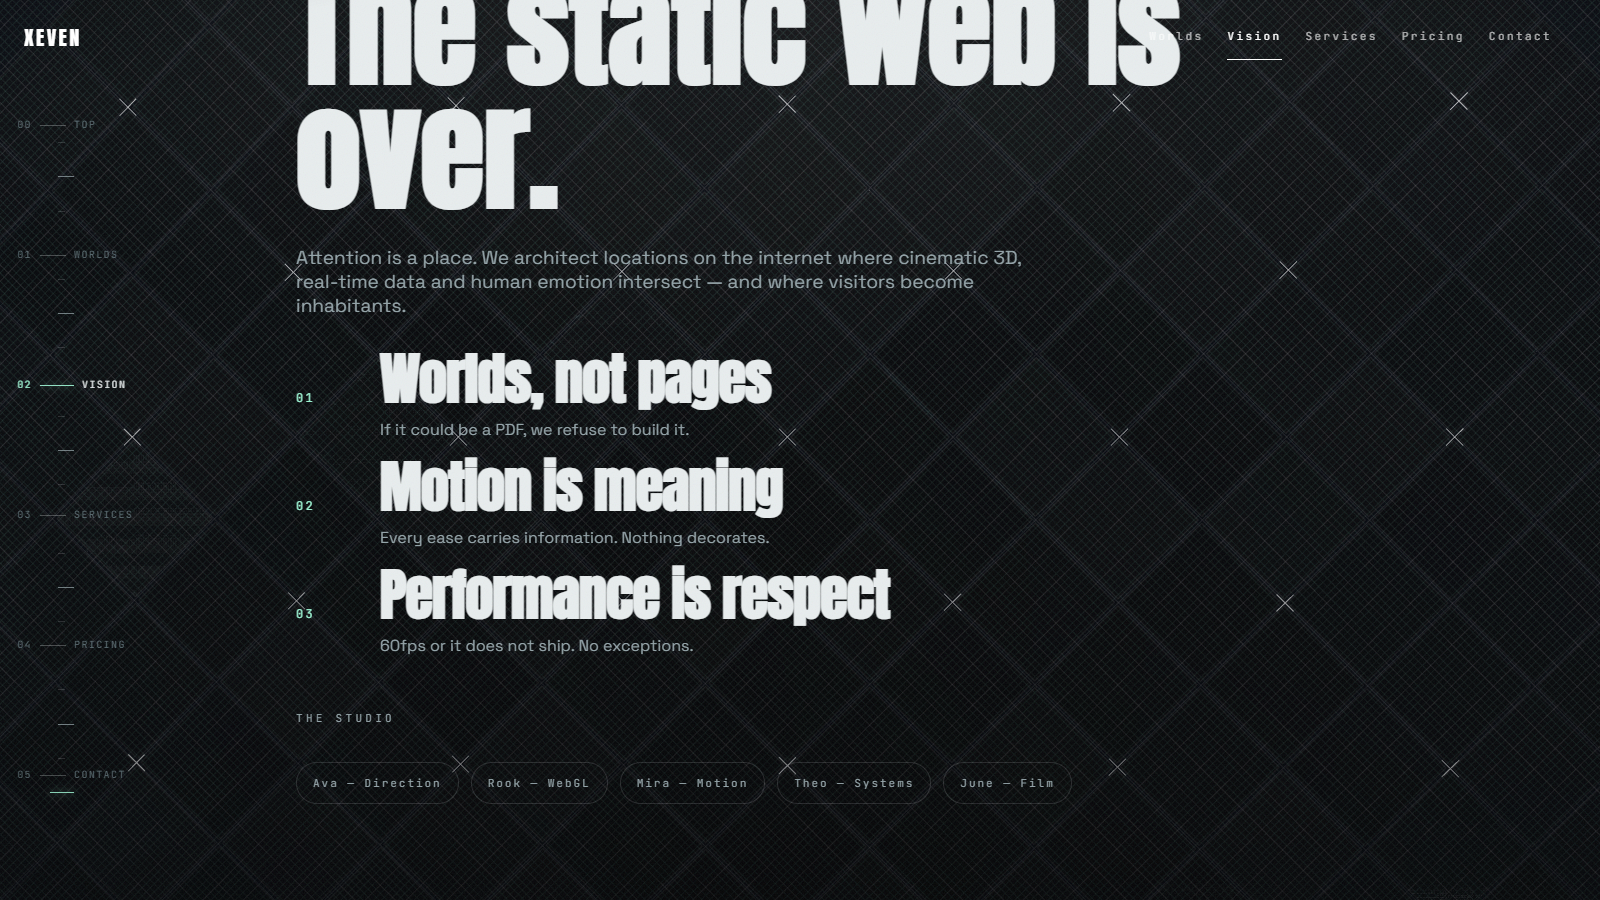
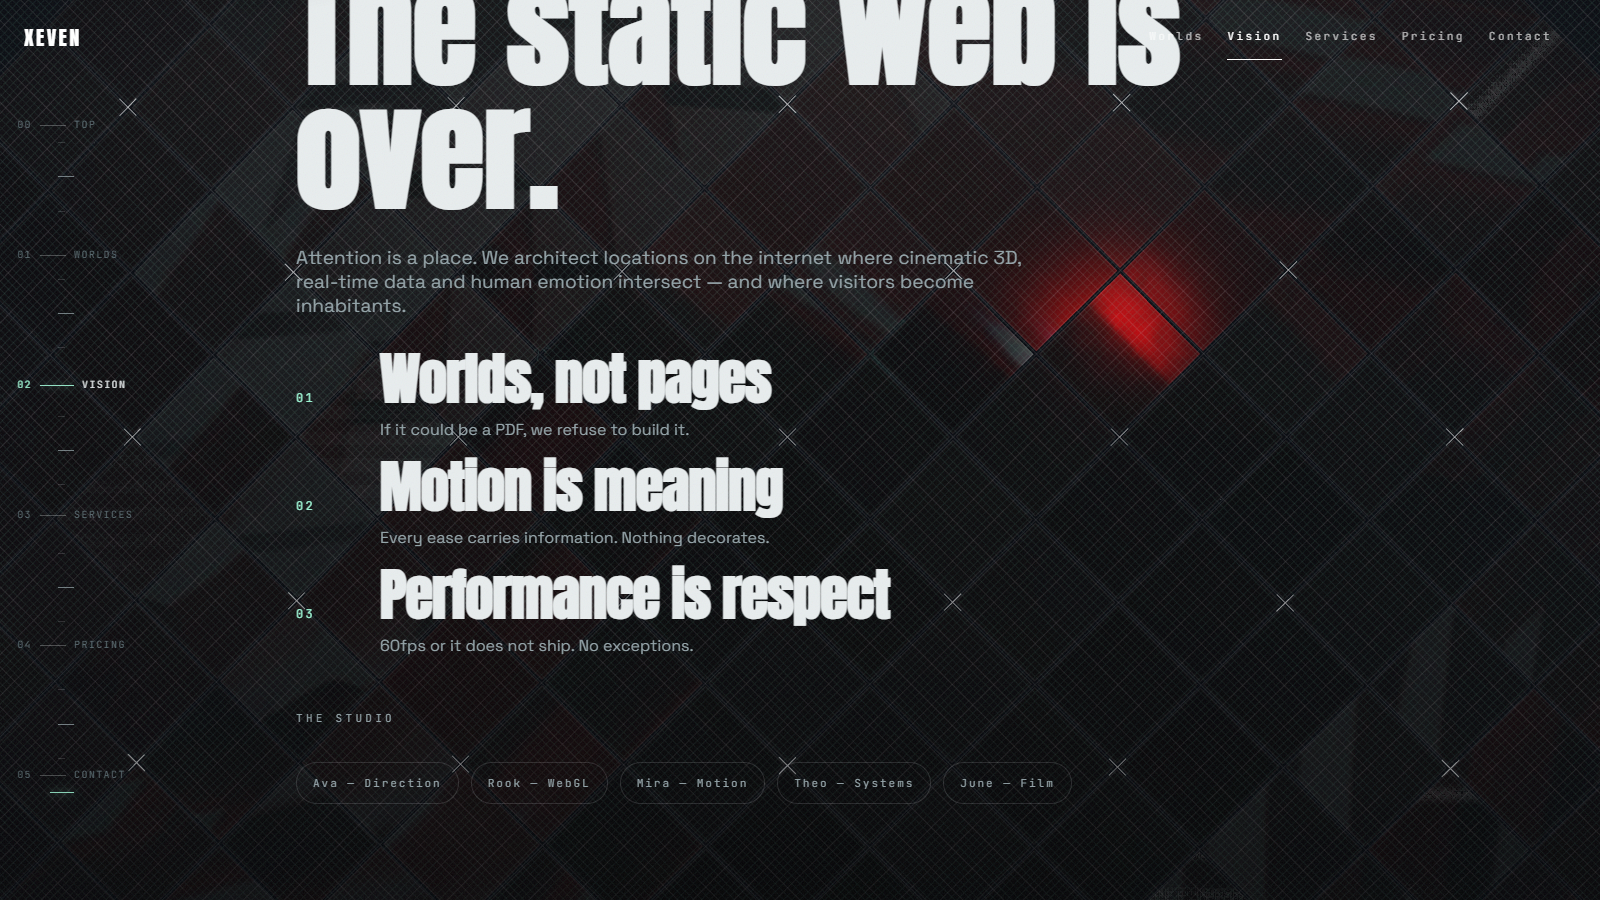
Living face mosaic woven across the quad field

Changed region(s): [[0.625, 0.2178, 0.7812, 0.4356], [0.9375, 0.0622, 0.9688, 0.0933]]

diff --git a/src/components/VoidWorld.tsx b/src/components/VoidWorld.tsx
@@ -185,6 +185,8 @@ export default function VoidWorld() {
     quadGeo.setAttribute('aSeed', new THREE.InstancedBufferAttribute(aSeed, 1))
     quadGeo.setAttribute('aQI', new THREE.InstancedBufferAttribute(aQI, 1))
     quadGeo.setAttribute('aQJ', new THREE.InstancedBufferAttribute(aQJ, 1))
+    const facePlaceholder = new THREE.DataTexture(new Uint8Array([8, 10, 14, 255]), 1, 1)
+    facePlaceholder.needsUpdate = true
     const quadUniforms = {
       uTime: { value: 0 },
       uTrail: {
@@ -194,6 +196,10 @@ export default function VoidWorld() {
       uVel: { value: 0 },
       uShowcase: { value: 1 },
       uVoid: { value: new THREE.Vector3(0.0235, 0.0353, 0.0588) },
+      uFace: { value: facePlaceholder as THREE.Texture },
+      uCells: { value: CELLS },
+      uFaceAmt: { value: 0 },
+      uDrift: { value: reduced ? 0 : 1 },
     }
     const quadMat = new THREE.ShaderMaterial({
       uniforms: quadUniforms,
@@ -237,6 +243,10 @@ export default function VoidWorld() {
         uniform float uVel;
         uniform float uShowcase;
         uniform vec3 uVoid;
+        uniform sampler2D uFace;
+        uniform float uCells;
+        uniform float uFaceAmt;
+        uniform float uDrift;
         varying vec2 vUv;
         varying vec3 vWorld;
         varying float vSeed;
@@ -271,6 +281,18 @@ export default function VoidWorld() {
           }
           float breathe = 0.85 + 0.15 * sin(uTime * 6.0 + vWorld.x * 8.0 + vWorld.y * 6.0);
           col += vec3(1.0) * air * wspd * 0.16 * breathe * uShowcase;
+          // living mosaic: the face model woven across the diamond field.
+          // Each cell samples its own UV sub-rect (counter-rotated so the
+          // face reads upright), breathing + drifting, stirred brighter
+          // under the pointer.
+          vec2 fp = vec2(
+            0.7071 * (vUv.x - 0.5) + 0.7071 * (vUv.y - 0.5),
+            -0.7071 * (vUv.x - 0.5) + 0.7071 * (vUv.y - 0.5)) + 0.5;
+          vec2 fuv = (vec2(vQI, (uCells - 1.0) - vQJ) + fp) / uCells;
+          vec2 fz = (fuv - 0.5) * (1.0 + 0.05 * sin(uTime * 0.25)) + 0.5;
+          fz += uDrift * vec2(sin(uTime * 0.11), cos(uTime * 0.13)) * 0.02;
+          vec3 face = texture2D(uFace, fz).rgb;
+          col += face * uFaceAmt * (0.55 + air * 1.5) * uShowcase;
           // roaming cinema: sparse panels on a 7s clock
           float slot = floor(uTime / 7.0);
           float lp = fract(uTime / 7.0);
@@ -309,6 +331,15 @@ export default function VoidWorld() {
     const quads = new THREE.InstancedMesh(quadGeo, quadMat, NQ)
     quads.frustumCulled = false // matrices re-laid on route rebuilds
     scene.add(quads)
+    // face model: async texture for the living mosaic (placeholder holds
+    // the field at zero until it arrives — never a flash, never a stall)
+    new THREE.TextureLoader().load('/assets/face.png', (tex) => {
+      tex.colorSpace = THREE.SRGBColorSpace
+      tex.anisotropy = 4
+      quadUniforms.uFace.value = tex
+      quadUniforms.uFaceAmt.value = 0.32
+      quadUniforms.uDrift.value = reduced ? 0 : 1
+    })
     // ---- quad placement: diamonds aligned to the rails ----
     // A uv-block (4×4 cells) maps to a world diamond: rotate the plane 45°
     // so its EDGES run along the lattice rails (mock grammar), centroids

diff --git a/backlog.md b/backlog.md
@@ -56,6 +56,7 @@ Scope frozen: map-only phase found zero blank routes, zero dead links, zero cons
 - [x] Capabilities + Showreel overhaul (full authority): CAPS cards were empty gradient slabs in a sprawling zigzag — now spec sheets (stack chips WebGL/GLSL/60fps etc., ghost numerals kept, Tilt kept) on a tightened 12vh rhythm with rail-clear gutter. Showreel rebuilt as cinema: letterbox bars closing over the pin, Ken Burns breathing inside every hold (inner-media scale, zero writer conflicts), single-timeline takes with counter. Verified: build green, 3 pre-existing warnings, Edge 0 errors / 0 overflow, stage 03/05 mid-pin, 2 bars, 12 spec chips, rail clears cards. Frames VISUALLY VERIFIED (spec-sheet card + dealing deck; letterboxed Chrome-drift take with ghost marquee). Evidence: verify/world/d4-world.json + g1 + g4.
 - [x] Capabilities + Showreel creative destruction: CAPS cards + deck-throw + Tilt + ghosts fully removed — capabilities are now a SPECIMEN INDEX (giant ruled titles, IO opens the centered row revealing media + data + stack chips, click exclusive, reduced stands fully open). Showreel conveyor/stage gone — takes now ride an ORBITAL RING (scrubbed 360° revolution, upright unreadable-never titles, depth scale/opacity/zIndex, front-take counter, letterbox + ghost kept, single layout writer, viewport-relative ellipse = resize-proof). Verified: build green, 3 pre-existing warnings, Edge 0 errors / 0 overflow, counter live, 12 chips. Frames VISUALLY VERIFIED (open specimen with media+chips over ruled list; orbital depth collage with letterbox). Evidence: verify/world/d4-world.json + refreshed g1 + g4.
 - [x] Second from-scratch pass (caps + reel + finger): CAPABILITIES are sticky GLASS CHAPTERS (full-viewport frosted sheets, cascading sticky offsets, ghost numerals, media + specs — pure CSS, zero JS writers, free on mobile/reduced); SHOWREEL is an ASSEMBLY MOSAIC (takes scattered off-frame converge into a grid, hold fully landed, then disassemble — viewport-relative slot math, single timeline, transform/opacity only); cursor is a FINGERTIP (soft eased diffuse presence, ~1s in/out, zero rings/lines/chasing; ripple system deleted). Verified: builds green, 3 pre-existing warnings, Edge 0 errors / 0 overflow, finger zone +50% over reference with decay, mosaic hold beat added after catching overlap. Frames VISUALLY VERIFIED (glass chapter stack, mosaic collage, fingertip bloom). Evidence: verify/world/d4-world.json + g0-world-hero + g5-ruler + probe-flick.
+- [x] Living face mosaic: the red visor model (G:\mocks\animations\face2.png → public/assets/face.png) woven across the diamond field — each cell samples its own UV sub-rect (counter-rotated so the face reads upright), slow breathe zoom + drift (frozen under reduced motion), stirred brighter under the pointer via the existing air term; async load behind a 1×1 placeholder (zero flash/stall), 0.32 blend so copy stays readable. Verified: builds green, Edge 0 errors / 0 overflow, 60fps hero. Frame VISUALLY VERIFIED (visor curve + red shell assemble across cells, title clean). Evidence: verify/world/d4-world.json + g0.
 - [x] Exact ruler ticks + cursor authority pass: every gap now holds exactly 2 cm ticks + 1 big mid-inch at quarters (DOM-positioned, identical gaps, gradient column deleted); cursor rebuilt on judgment — the last flare was timid, so bend 0.12→0.25u, translucency 0.05→0.16 neutral with a slow breathe shimmer, trail decay 0.9→0.96 (longer evaporation), still fingertip σ, still speed-gated to dead-at-rest, zero body/glow/tint. Probed with a mid-motion zigzag capture: soft lift reads along the path, gone at idle (ambient wave streaks are the field's own, unrelated). Verified: builds green, Edge 0 errors / 0 overflow. Frames VISUALLY VERIFIED (tick spec exact, flare lift along path). Evidence: verify/world/d4-world.json + g5 + probe-flick.
 - [x] Fingertip air flare + global ruler: wake rebuilt at touch scale (σ≈0.8u, ±0.12u per tap) as head + 5-sample decaying trail (40ms samples, 0.9/frame drain), gated by damped speed so it evaporates at rest; translucency is a faint neutral 0.05 lift where the medium bends — no tint, no body, no glow, lines parked; new global RulerBar (6 inch marks = routes, cm tick column, rAF scroll needle, click-to-navigate, ≤900px hidden) replaces the deleted SectionRail (file + CSS removed). Verified: builds green, Edge 0 errors / 0 overflow, 6 inches, active 00TOP→02VISION follows route, needle 0→684px with scroll. Frames VISUALLY VERIFIED (ruler instrument, hero hold). Evidence: verify/world/d4-world.json + g0 + g5.
 - [x] Hero-only index + air flare: PROCESS and DEPARTURE sections deleted entirely (STEPS data, FootTime clock, thread/spine/stub/node JS + CSS, row arrivals, observer, foot rhythm, mark-fixed button + entrance/yield, rail unmounted, foot wordmark return); camera is a single hold over the hero; wake widened into an invisible air flare (σ 2.5→4u, ±0.4→0.55u, speed gain up, shimmer 0.05→0.09 — flares with motion, dead at rest, zero body/trail/light); pointermove now wakes the render loop (page has no scroll, so motion alone keeps the field alive); hero hint reworded to the flare. Verified: builds green, Edge 0 errors / 0 overflow, rail 0, proc/foot/mark gone, title intact. Frames VISUALLY VERIFIED (hero hold, concave field, no chrome). Evidence: verify/world/d4-world.json + g0 + g4.
